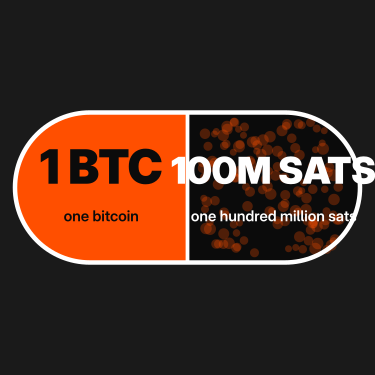
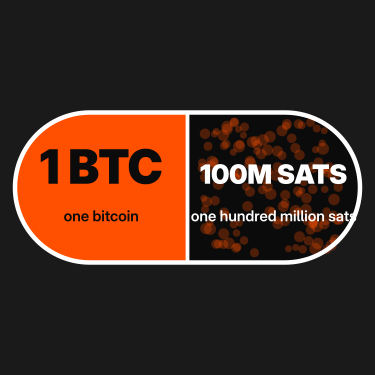
review fixes: SELLING FIAT on one line (fiat green), 100M SATS fits its half

Changed region(s): [[0.44, 0.4107, 1.0, 0.4987]]

diff --git a/src/gen.py b/src/gen.py
@@ -78,8 +78,7 @@ w, h = TEE
 b = ""
 b += stack(w / 2, 1500, ["YOU'RE NOT", "BUYING", ("BITCOIN.", ORANGE)], 560, gap=0.92, fill=WHITE)
 b += txt(w / 2, 3300, "YOU'RE", 560, fill=WHITE)
-b += txt(w / 2 - 520, 3800, "SELLING", 470, fill=WHITE)
-b += txt(w / 2 + 640, 3800, "FIAT.", 470, fill=GREEN)
+b += f'<text x="{w/2}" y="3800" font-family="{SANS}" font-weight="900" font-size="470" text-anchor="middle" fill="{WHITE}">SELLING <tspan fill="{GREEN}">FIAT.</tspan></text>\n'
 b += sig(w, h)
 designs["D01-selling-fiat-tee"] = (TEE, b, "tee/hoodie front, dark garment")
 
@@ -129,7 +128,7 @@ def pill(cx, cy, L, R, fs_big, fs_small):
     # mirror: the two halves read as the same thing said twice
     out += txt(cx - L / 4, cy - R * 0.05, "1 BTC", fs_big, fill=INK)
     out += txt(cx - L / 4, cy + R * 0.45, "one bitcoin", fs_small, fill=INK, weight=600)
-    out += txt(cx + L / 4, cy - R * 0.05, "100M SATS", fs_big * 0.78, fill=WHITE)
+    out += txt(cx + L / 4, cy - R * 0.05, "100M SATS", fs_big * 0.56, fill=WHITE)
     out += txt(cx + L / 4, cy + R * 0.45, "one hundred million sats", fs_small, fill=WHITE, weight=600)
     return out
 
